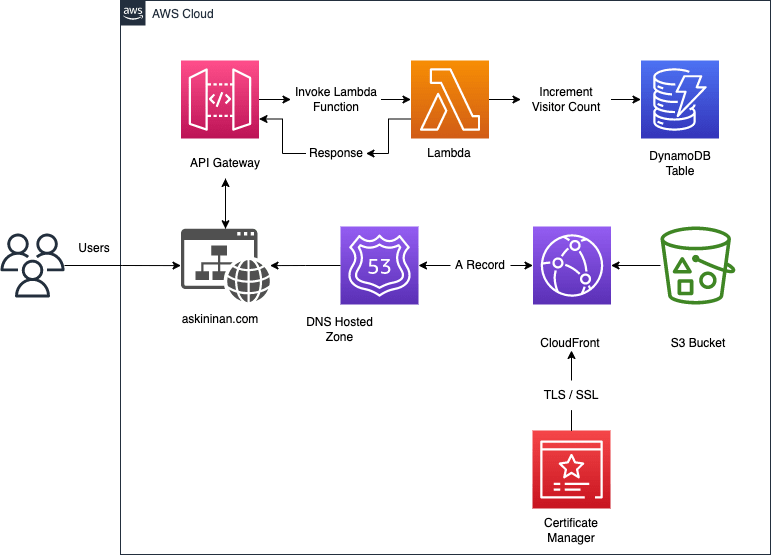
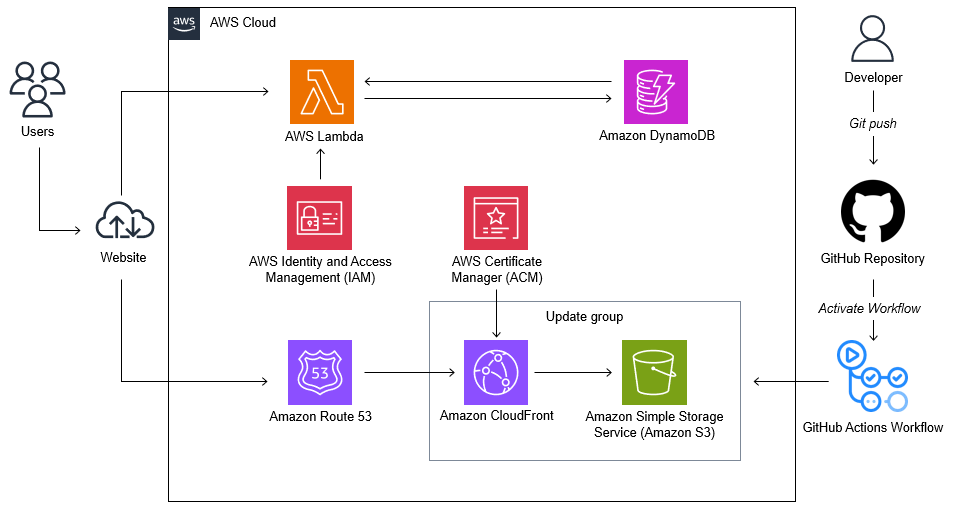
Added text for The Cloud Resume Challenge Project

diff --git a/website/html/index.html b/website/html/index.html
@@ -476,7 +476,7 @@
             <div class="btn-container">
               <button
                 class="btn btn-color-2 project-btn"
-                onclick="window.open('https://github.com/', '_blank')"
+                onclick="window.open('https://github.com/fernandoSantello/portifolio', '_blank')"
               >
                 Github
               </button>
@@ -497,7 +497,17 @@
                         <img src="../resources/images/tech-icons/AWS.png" alt="Modal Icon" class="modal-icon" />
                         <img src="../resources/images/tech-icons/Git.png" alt="Modal Icon" class="modal-icon" />
                         <h2>The Cloud Resume Challenge</h2>
-                        <p>A Cloud Resume Challenge é um projeto educacional que ajuda as pessoas a desenvolverem habilidades em nuvem, especificamente usando serviços da AWS. Os participantes criam um currículo online e implementam uma aplicação web usando serviços da AWS, como EC2, RDS e S3. O desafio oferece uma experiência prática na construção e implantação de aplicativos na nuvem, e tem sido muito bom para meu aprendizado! Conforme for avançando no desafio, irei atualizado por aqui!</p>
+                        <p>A Cloud Resume Challenge é um projeto educacional que ajuda as pessoas a desenvolverem habilidades em nuvem. Os participantes criam um currículo e implementam uma aplicação web usando serviços da AWS, como AWS Lambda, DynamoDB, S3, entre outros. Ela foi criada por Forrest Brazeal para que profissionais novos na área Cloud pudessem comprovar com experiência prática que estão praticando uma vasta gama de conhecimentos. Existem mais detalhes no SITE DELE AQUI, vale muito a pena a leitura. <br><br>Agora, abordarei a arquitetura do projeto e a minha jornada com o seguinte diagrama:<br><br>
+                          <div class="section__pic-container__3">
+                            <img
+                              src="../resources/images/project-pictures/project-2.png"
+                            />
+                          </div>
+                           <br><br>No desenvolvimento do portfólio para o Cloud Resume Challenge, foi criada uma página web utilizando CSS, HTML e JavaScript, proporcionando uma experiência de usuário fluída. Os componentes do frontend foram hospedados em um S3 Bucket, como o desafio pede. Com esse passo inicial dado, chegou a hora de começar a estruturar um pouco mais as coisas.<br><br>
+                          O próximo passo do desafio pede que o protocolo HTTPS seja utilizado. Para isso uma distribuição CloudFront foi integrada ao projeto, juntamente com um certificado fornecido pelo AWS Certificate Manager (ACM). Configurei o Cloudfront para bloquear acessos HTTP, fazendo com que só acessos seguros sejam realizados. Aqui já foi criado um endereço apontando para o meu Bucket, gerado pela AWS mesmo, e já era possível visualizar e interagir com o site.<br><br>Com isso, o próximo passo era apontar para um domínio DNS com nome específico para a distribuição do Cloudfront criada. O nome do domínio em si é algo que o Route53 fornece por cerca de 13 dólares. Comprei um domínio e o conectei com o Cloudfront, e essa conexão foi interessante de se fazer. Assumi que seria bem simples (e foi, com o certificado emitido pelo ACM configurado), mas deu para ver como o Route53 é vasto. Fui lendo vários termos que não conhecia, com a documentação da AWS sempre me acompanhando.<br><br>
+                      O próximo passo foi adicionar uma “contagem de acessos” ao site. Para isso dois serviços foram utilizados: AWS Lambda e Amazon DynamoDB. Uma tabela no Dynamo foi configurada com uma chave de identificação e o valor de views.
+                           <br><br>Com um local para salvar as informações, o próximo passo era configurar algo que iria consultar e atualizar os dados. A função Lambda utilizada para isso foi escrita em Python utilizando a biblioteca boto3. Quando descobri a boto3, comecei a ler a documentação e fiquei fascinado. Ela é maravilhosa para pessoas como que que ama Python, e com certeza irei utilizá-la em projetos futuros.<br><br>Nessa parte do projeto encontrei um problema. A função Lambda não tinha permissões para utilizar o DynamoDB. Estudando vi que o correto a se fazer é criar uma role específica no IAM, e dar essa role para a função AWS Lambda. E fui justamente isso que fiz para essa parte do projeto começar a funcionar!<br><br>Antigamente, esse passo do desafio exigia a configuração do API Gateway para realizar a comunicação com a Lambda. Porém em 2022, foi lançada a funcionalidade de funções Lambdas serem acessadas por Functions URLs específicos, algo que facilita bastante. Foi o que eu utilizei no meu projeto, já que ficou super fácil de integrar a chamada em JavaScript fazendo um fetch. Por segurança, configurei a função para aceitar chamados somente se o pedido vier do endereço do meu portifólio.<br><br>Com isso a estrutura geral estava finalizada. Mas para qualquer mudança que eu fazia no código, tinha que atualizar tudo manualmente na interface da AWS. Para solucionar esse problema, entra o GitHub Actions.<br><br>Quando realizo qualquer tipo de mudança no website realizo um push para meu repositório deste projeto no GitHub. Quando faço isso, o workflow configurado é ativado com dois objetivos. O primeiro é atualizar todos os arquivos presentes no meu S3 Bucket, para que as mudanças que realizei tenham efeito no frontend. Entretando, ao fazer apenas isso, o frontend ainda não é alterado. Isso ocorre porque dependendo de onde o website estar sendo acessado, o Cloudfront já salvou em cache as informações do site. Ai que entra a segunda parte do workflow. Ele também invalida o cache do Cloudfront, para que os arquivos sejam puxados do Bucket novamente e as mudanças realizadas tenham efeito.<br><br>Quanta coisa, né? Em resumo, o Cloud Resume Challenge provou ser mais do que um simples projeto técnico e tem sido uma jornada de crescimento pessoal e profissional. Explorando a AWS, tenho aprendido não apenas sobre serviços específicos, mas também sobre a importância de uma arquitetura bem. Este desafio ampliou minhas habilidades em Cloud, e expandiu muito minha curiosidade para aprender. Quero estudar mais serviços, como eles se comunicam e o que eu posso fazer com eles. Quero entender mais para conseguir construir mais. <br><br>Estou ansioso para aplicar os conhecimentos em projetos futuros, e continuar minha jornada na nuvem. Vou terminar de implementar IaC utilizando Terraform e seguir para outros projetos. Este desafio não foi apenas um passo na construção do meu portfólio, mas um salto na minha carreira em tecnologia. Não pelo que eu fiz aqui em essência, mas porque eu descobri outro caminho que realmente quero trilhar.
+                        </p>
                 </div>
               </div>
             </div>           

diff --git a/website/css/mediaqueries.css b/website/css/mediaqueries.css
@@ -101,14 +101,14 @@
     height: 200px;
     width: 300px;
     margin: auto;
-    j
-  .section__text__p2 {
-    font-size: 1.25rem;
-  }
-  .title {
-    font-size: 2rem;
-  }
-  .text-container {
-    text-align: justify;
+    j .section__text__p2 {
+      font-size: 1.25rem;
+    }
+    .title {
+      font-size: 2rem;
+    }
+    .text-container {
+      text-align: justify;
+    }
   }
 }

diff --git a/python/lambda_handler_test.py b/python/lambda_handler_test.py
@@ -1,0 +1,46 @@
+import pytest
+from moto import mock_dynamodb
+import lambda_cloud_resume_challenge_api  # Replace with your actual Lambda function module
+from lambda_cloud_resume_challenge_api import lambda_handler  # Assuming your function is in this module
+import boto3
+from decimal import Decimal
+import json
+
+@mock_dynamodb
+def test_lambda_handler():
+    # Set up DynamoDB mock
+    dynamodb = boto3.resource('dynamodb', region_name='sa-east-1')
+    table = dynamodb.create_table(
+        TableName='cloud-resume-challenge',
+        KeySchema=[
+            {'AttributeName': 'id', 'KeyType': 'HASH'}
+        ],
+        AttributeDefinitions=[
+            {'AttributeName': 'id', 'AttributeType': 'S'}
+        ]
+    )
+    table.wait_until_exists()
+
+    # Insert mock data
+    table.put_item(Item={'id': '1', 'views': Decimal('0')})
+
+    # Define the mock event
+    mock_event = {
+        # Your event structure here
+    }
+
+    # Test the Lambda handler for an existing item
+    response = lambda_handler(mock_event, None)
+    assert response['statusCode'] == 200
+    body = json.loads(response['body'])
+    assert body['views'] == 1
+
+    # Test for a non-existing item
+    response = lambda_handler({'id': '2'}, None)
+    assert response['statusCode'] == 404
+
+    # Optionally, you can add more tests to simulate and handle exceptions
+
+# Run the test
+if __name__ == "__main__":
+    test_lambda_handler()
